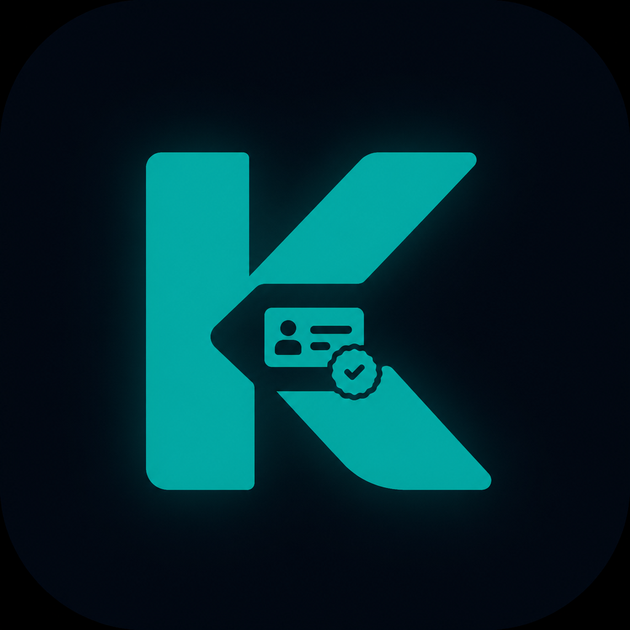
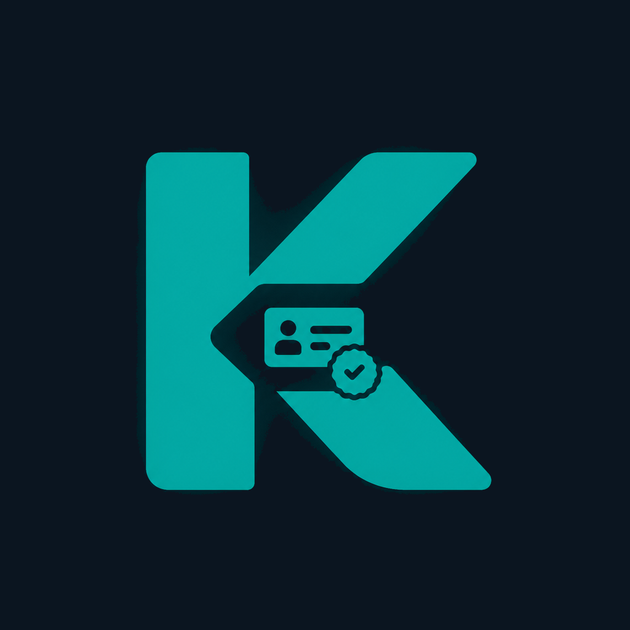
Use Kuatia navy panel blue for brand mark backgrounds.
Align favicon, apple icon, and OG mark with #0B1520 instead of pure black.

diff --git a/identity-kuatia/source/src/app/opengraph-image.tsx b/identity-kuatia/source/src/app/opengraph-image.tsx
@@ -26,7 +26,7 @@ export default async function OpenGraphImage() {
           display: 'flex',
           alignItems: 'center',
           justifyContent: 'center',
-          background: '#050a10',
+          background: '#0B1520',
         }}
       >
         {/* eslint-disable-next-line @next/next/no-img-element */}

diff --git a/identity-kuatia/source/src/app/icon.tsx b/identity-kuatia/source/src/app/icon.tsx
@@ -18,7 +18,7 @@ export default function Icon() {
           display: 'flex',
           alignItems: 'center',
           justifyContent: 'center',
-          background: '#050a10',
+          background: '#0B1520',
           color: '#00a89d',
           fontSize: 22,
           fontWeight: 800,
